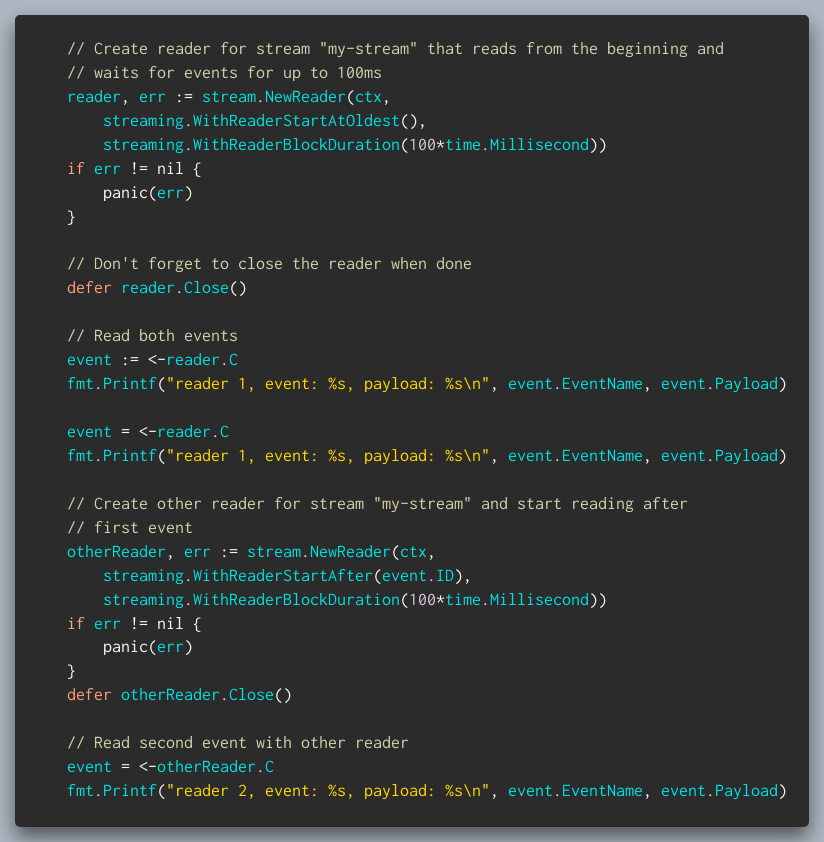
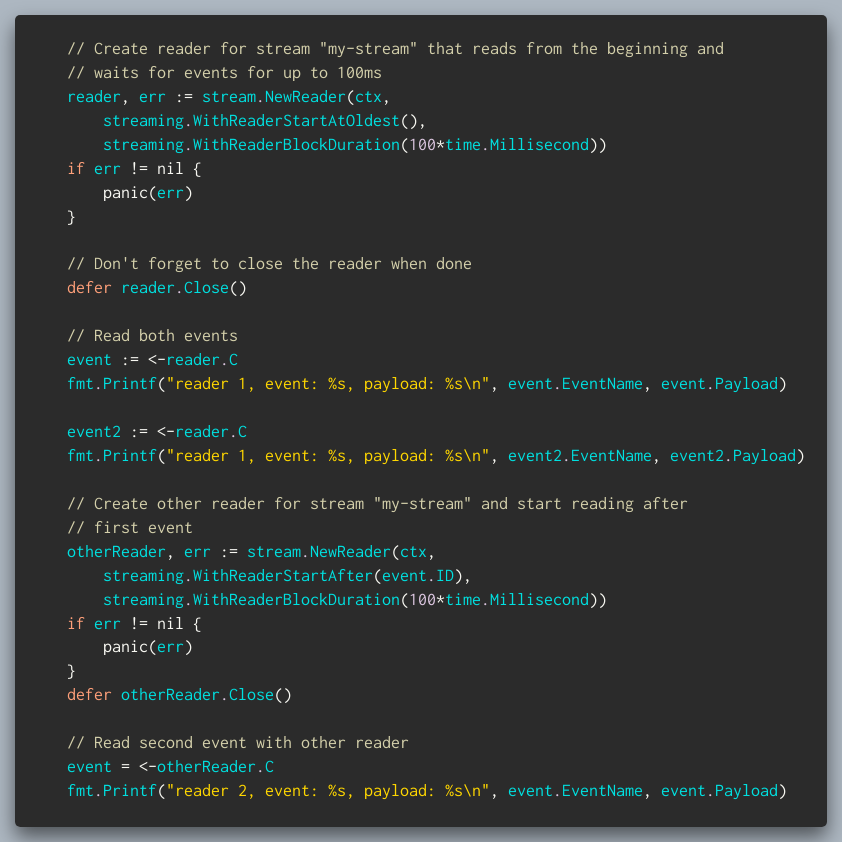
Play with styles

diff --git a/examples/streaming/multi-reader/main.go b/examples/streaming/multi-reader/main.go
@@ -58,8 +58,8 @@ func main() {
 	event := <-reader.C
 	fmt.Printf("reader 1, event: %s, payload: %s\n", event.EventName, event.Payload)
 
-	event = <-reader.C
-	fmt.Printf("reader 1, event: %s, payload: %s\n", event.EventName, event.Payload)
+	event2 := <-reader.C
+	fmt.Printf("reader 1, event: %s, payload: %s\n", event2.EventName, event2.Payload)
 
 	// Create other reader for stream "my-stream" and start reading after
 	// first event

diff --git a/streaming/README.md b/streaming/README.md
@@ -74,7 +74,7 @@ acknowledged.
 
 Creating a sink is as simple as:
 
-https://github.com/goadesign/ponos/tree/main/examples/streaming/single-sink/main.go#L1-L51
+<a href="../examples/streaming/single-sink/main.go"><img src="../snippets/single-sink.png" /></a>
 
 Note a couple of differences with the reader example above:
 
